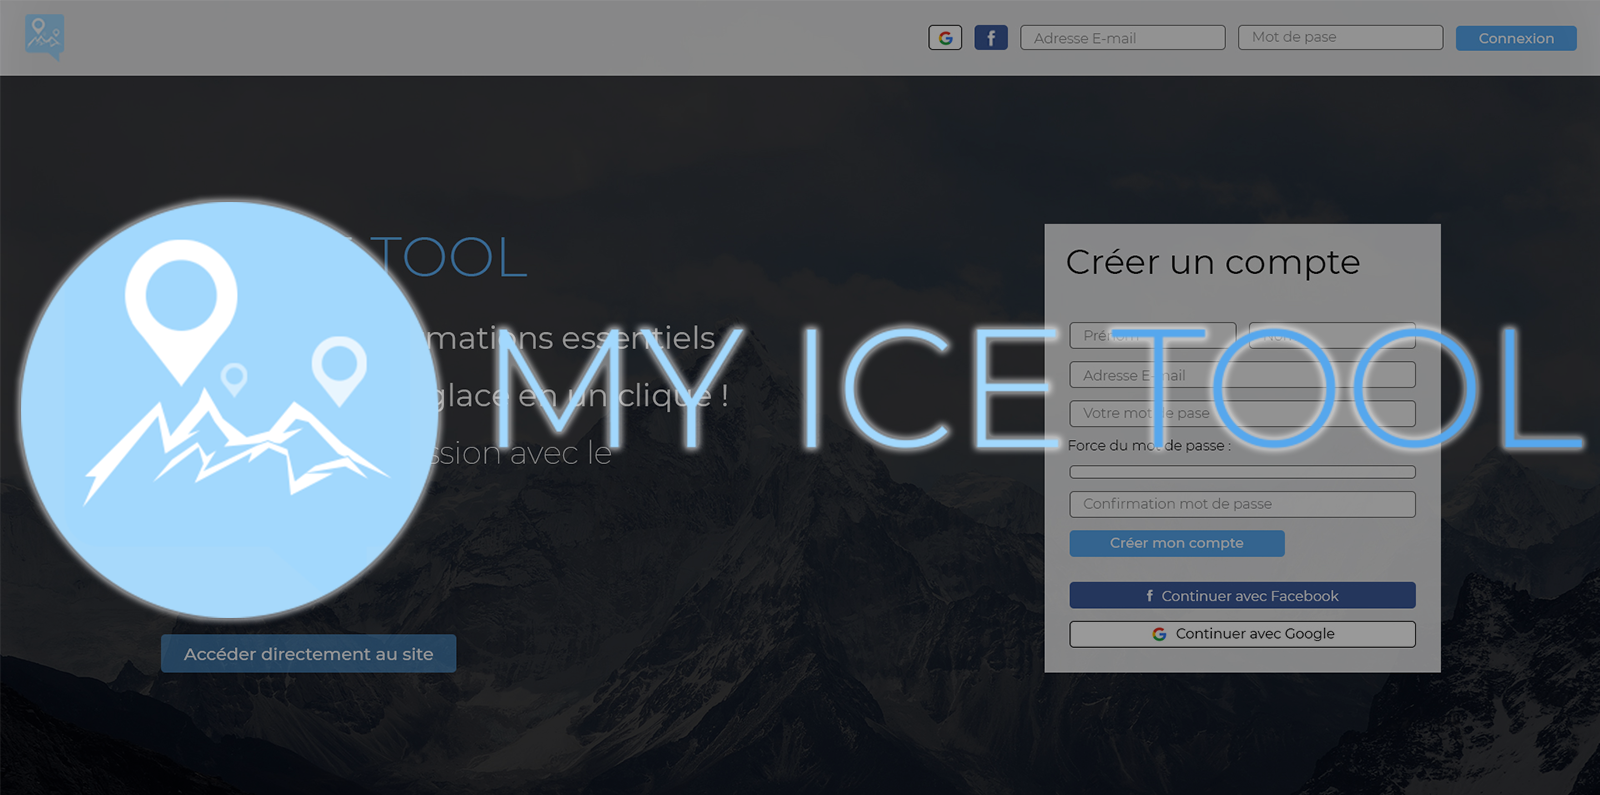
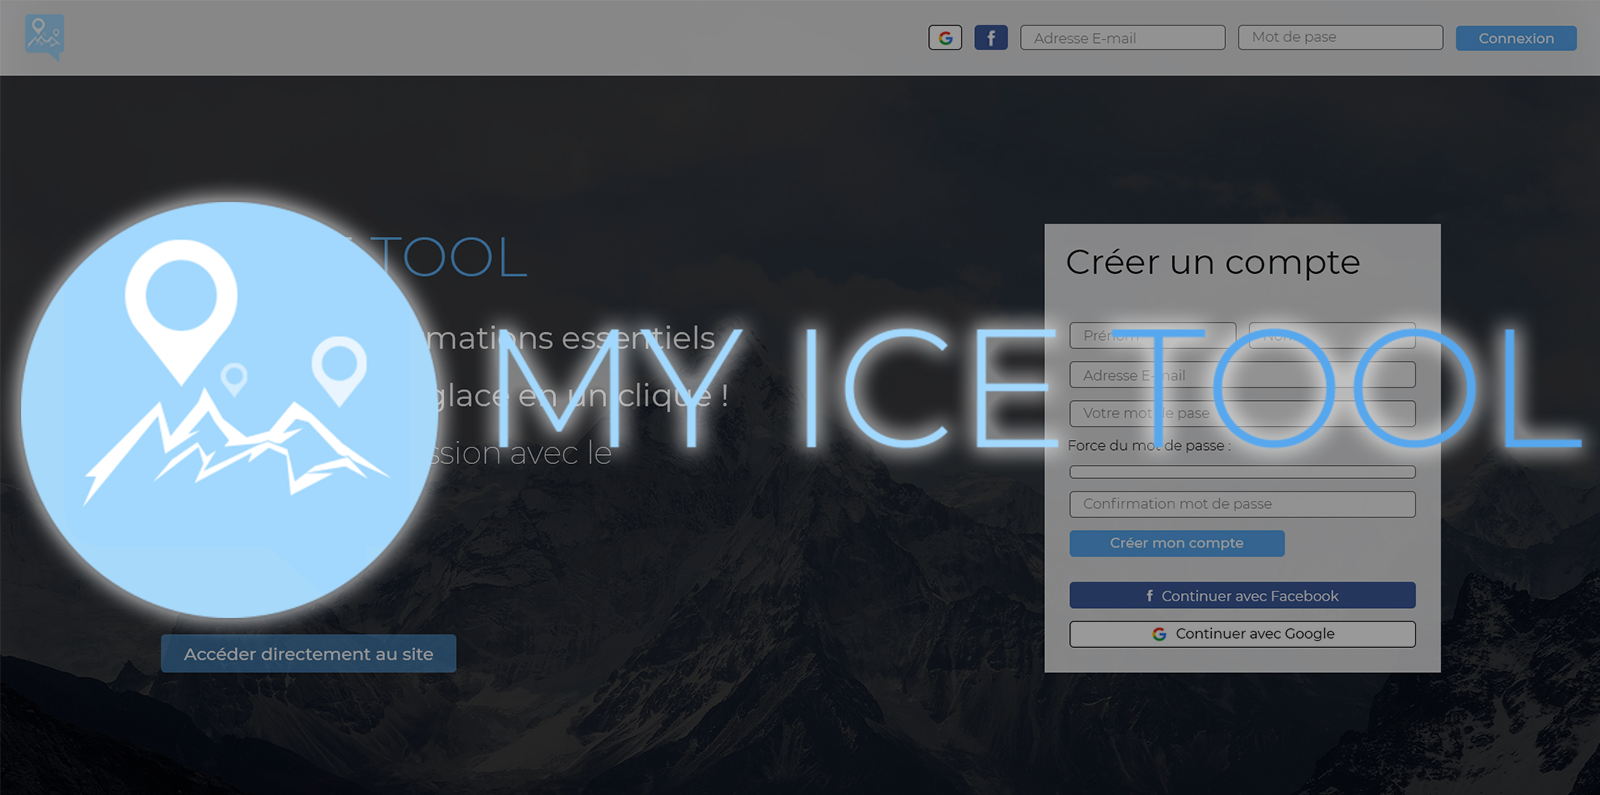
My Ice Tool wording + responsive

diff --git a/portfolio/src/components/projects/ProjectMyIceTool.vue b/portfolio/src/components/projects/ProjectMyIceTool.vue
@@ -9,28 +9,26 @@
             <!-- CLOSE BUTTON -->
             <CloseButton @click="$emit('close')" />
             <!-- TITLE -->
-            <div class="project-titl">
+            <div class="project-title">
                 <img src="@/assets/images/projects/myIceTool/logoName.png" />
             </div>
             <!-- PRESENTATION -->
             <div class="section-title">
-                Présentation de l’API Explorer
+                Présentation
             </div>
             <div class="section-content">
-                L’API Explorer permet la création d’une interface pour n’importe
-                quelle requête service web de type REST. Avec cette interface,
-                une expérience IntuiFace en cours d'exécution peut lire et
-                écrire de manière dynamique sur la source de données et / ou le
-                périphérique accessible via ce service Web. L’API Explorer
-                permet d’avoir accès à des dizaines de milliers d'API publiques
-                et privées disponibles dans le cloud.
-                <br />
-                Il y a tout : des listes de films, des prévisions
-                météorologiques, les dernières photos de la NASA et tout ce qui
-                est possible de trouver sur Internet. La majorité est gratuite
-                tandis que d'autres peuvent exiger des frais d'accès. Certains
-                peuvent être privés et internes à votre organisation. Peu
-                importe, tous sont accessibles dans Intuiface.
+                <b>My Ice Tool</b> est un projet étudiant que j'ai du réalisé durant ma licence professionnelle à Gap.
+                L'objectif était de réaliser un site web permettant de visualiser les conditions d'escalades sur des cascades de glaces dans des zones spécifiques.
+                Notre équipe a notamment dû:
+                <div class="pl-10"> 
+                    - Créer l'identité graphique du site. <br>
+                    - Gérer l'authentification, avec la possibilité de <b>s'inscrire directement avec son compte Google ou Facebook</b>. <br>
+                    - Utiliser l'<b>api Google Maps</b> afin de tracer des zones sur une carte et d'y afficher des points d'intérêts. <br>
+                    - Gérer l'ajout et la visualisation de commentaires. <br>
+                    - Afficher l'historique des dernières températures pour chaque cascade.
+                    Pour se faire, un <b>cron</b> se charge une fois par jour d'appeler une api météo pour récupérer les dernières température et les stocker dans une base de données <b>MySQL</b>.<br>
+                </div>
+                Ce projet a été réalisé à l'aide du framework PHP <b>Laravel</b> et une équipe constituée de 3 développeurs et 1 graphiste.
             </div>
 
             <!-- Page d'inscription -->
@@ -121,15 +119,17 @@ export default {
 };
 </script>
 
-<style scoped>
+<style lang="scss" scoped>
 .project-container {
     background-color: var(--v-light-base);
-    padding: 5vh 20% !important;
+    padding: 5vh 30vw !important;
     text-align: justify;
 }
 .project-title {
     text-align: center;
-    padding-bottom: 15px;
+    img {
+        width: 600px;
+    }
 }
 img {
     max-width: 100%;
@@ -145,5 +145,22 @@ img {
     padding-top: 10px;
     padding-bottom: 5px;
     text-decoration: underline;
+}
+
+// RESPONSIVE
+
+@media (max-width: 1200px) {
+    .project-container {
+        padding: 5vh 15vw !important;
+    }
+}
+// Medium devices (tablets, max 768px and less)
+@media (max-width: 768px) {
+    .project-container {
+        padding: 5vh 3vw !important;
+    }
+    .project-title {
+        padding-top: 50px;
+    }
 }
 </style>

diff --git a/portfolio/src/components/projects/Projects.vue b/portfolio/src/components/projects/Projects.vue
@@ -24,8 +24,8 @@
         <!-- Tutoriel API Explorer -->
         <ProjectPreview
             :title="P3_TITLE"
-            :description="P1_DESCRIPTION"
-            :skills="P1_SKILLS"
+            :description="P3_DESCRIPTION"
+            :skills="P3_SKILLS"
             :imgName="P3_IMG"
             :dialogComponent="P3_DIALOG"
         />
@@ -49,8 +49,12 @@ export default {
         P2_IMG: "apiExplorer",
         P2_DIALOG: "ProjectApiExplorer",
         P3_TITLE: "MY ICE TOOL - PROJET TUTEURÉ",
+        P3_DESCRIPTION: `My Ice Tool est un projet étudiant que j'ai du réalisé durant ma licence professionnelle à Gap.
+            L'objectif était de réaliser un site web permettant de visualiser les conditions d'escalades sur des cascades de glaces dans des zones spécifiques.
+            Notre équipe a notamment dû créer l'identité graphique du site, gérer l'authentification, l'ajout de commentaires, utiliser l'api de Google Maps afin de tracer des zones et des points d'intérêts, stocker l'historique des températures en base à l'aide d'un cron, ...`,
         P3_IMG: "myIceTool",
         P3_DIALOG: "ProjectMyIceTool",
+        P3_SKILLS: ["Framework PHP Laravel", "Google Maps API", "Cron et Base de données MySQL"]
     }),
 };
 </script>

diff --git a/portfolio/src/components/shared/CloseButton.vue b/portfolio/src/components/shared/CloseButton.vue
@@ -2,7 +2,6 @@
     <div class="close-container" @click="$emit('click')">
         <div class="leftright"></div>
         <div class="rightleft"></div>
-        <label class="close">close</label>
     </div>
 </template>
 
@@ -69,11 +68,6 @@ label {
     transition: all 0.3s ease-in;
     opacity: 0;
 }
-.close {
-    margin: 60px 0 0 5px;
-    position: absolute;
-}
-
 .close-container:hover .leftright {
     transform: rotate(-45deg);
     background-color: $tomatored;

diff --git a/portfolio/src/components/presentation/Presentation.vue b/portfolio/src/components/presentation/Presentation.vue
@@ -18,7 +18,7 @@
                     <v-icon class="resume-icon" color="var(--v-primary-base)">
                         mdi-pin-outline
                     </v-icon>
-                    <div class="resume-text">France, Toulouse</div>
+                    <div class="resume-text">Toulouse, France</div>
                 </div>
                 <div class="resume-category">
                     <v-icon class="resume-icon" color="var(--v-primary-base)">

diff --git a/portfolio/src/components/projects/ProjectPreview.vue b/portfolio/src/components/projects/ProjectPreview.vue
@@ -103,7 +103,6 @@ export default {
 }
 .skill-icon {
     width: 25px;
-    margin-top: 5px;
     padding-right: 5px;
 }
 
